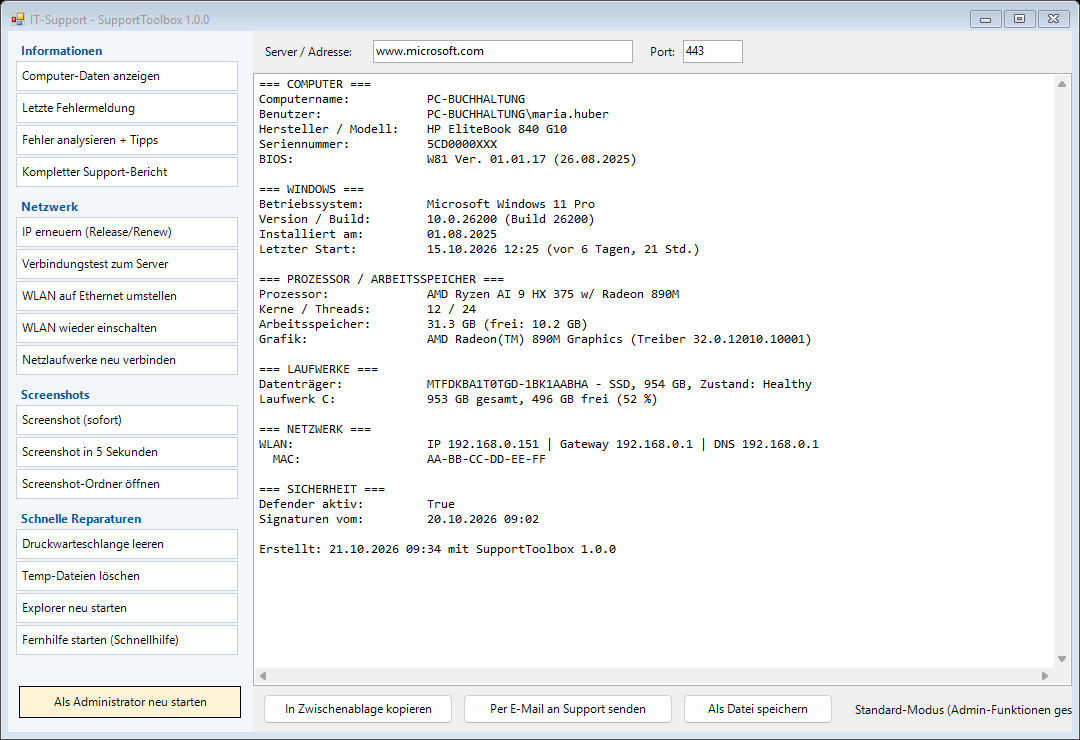
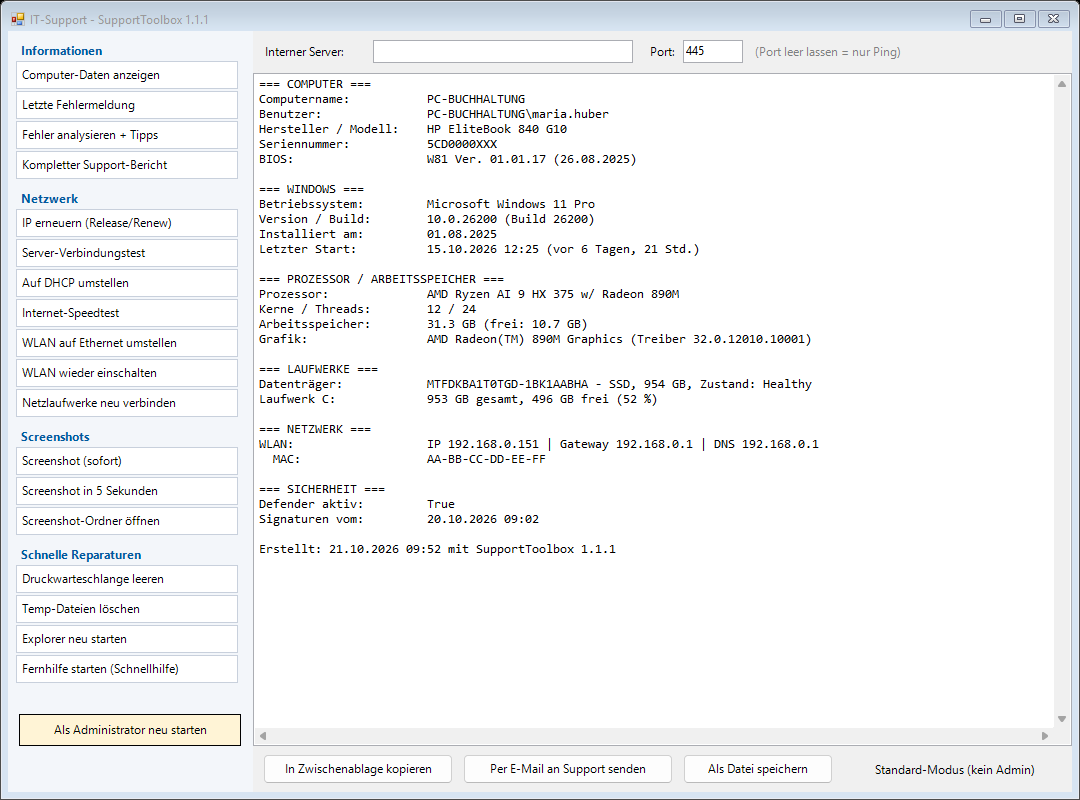
v1.1.1: Server-Verbindungstest fuer interne Server, DNS/DHCP-Infos, Layout-Fixes

diff --git a/docs/index.html b/docs/index.html
@@ -47,8 +47,8 @@ a{color:var(--accent)}
 <div class="card"><h3>⚠ Letzte Fehlermeldung</h3><p>Zeigt den neuesten Fehler aus dem Windows-Ereignisprotokoll im Klartext.</p></div>
 <div class="card"><h3>🔎 Fehleranalyse mit Tipps</h3><p>Erkennt bekannte Fehlermuster der letzten 14 Tage und gibt Hilfe zur Selbsthilfe. Prüft zusätzlich Speicherplatz, Neustart-Bedarf und RAM.</p></div>
 <div class="card"><h3>🔄 IP erneuern</h3><p><code>ipconfig /release</code>, <code>/renew</code> und DNS-Cache leeren in einem Schritt.</p></div>
-<div class="card"><h3>📡 Verbindungstest</h3><p>Router → Internet → DNS → Ping → Port zu Ihrem Server – mit verständlicher Diagnose, wo es hakt.</p></div>
-<div class="card"><h3>⚙ Auf DHCP umstellen</h3><p>Feste IP, Gateway und DNS mit einem Klick auf automatisch zurücksetzen – die alten Werte werden gesichert.</p></div>
+<div class="card"><h3>📡 Server-Verbindungstest</h3><p>Testet interne Server: Router → lokaler DNS-Server → Namensauflösung → Ping → Port – mit verständlicher Diagnose, wo es hakt.</p></div>
+<div class="card"><h3>⚙ Auf DHCP umstellen</h3><p>Feste IP, Gateway und DNS mit einem Klick auf automatisch zurücksetzen – alte Werte werden gesichert, der erhaltene DNS- und DHCP-Server wird angezeigt.</p></div>
 <div class="card"><h3>🚀 Internet-Speedtest</h3><p>Download, Upload, Ping und Schwankung mit verständlicher Einordnung und Tipps.</p></div>
 <div class="card"><h3>🔌 WLAN → Ethernet</h3><p>Schaltet das WLAN ab, sobald ein Netzwerkkabel verbunden ist – und bei Bedarf wieder an.</p></div>
 <div class="card"><h3>🗂 Netzlaufwerke</h3><p>Verbindet getrennte Laufwerke neu und prüft vorher, ob der Server erreichbar ist (VPN!).</p></div>
@@ -68,7 +68,7 @@ a{color:var(--accent)}
   "CompanyName": "Mein IT-Support",
   "SupportMail": "support@meine-firma.de",
   "TestHost": "server.meine-firma.de",
-  "TestPort": 443
+  "TestPort": 445
 }</pre>
 
 <footer>Open Source unter MIT-Lizenz · Läuft mit Windows PowerShell 5.1 (Windows 10/11) · Es werden keine Daten ins Internet gesendet.</footer>

diff --git a/README.md b/README.md
@@ -15,9 +15,9 @@ Kleines Support-Tool für Windows-Anwender: Der Kunde startet es per Doppelklick
 | | **Fehleranalyse + Tipps**: wertet die Fehler der letzten 14 Tage aus, erkennt bekannte Muster (Abstürze, Festplatte, Dienste, DNS, WLAN, Updates …) und gibt Hilfe zur Selbsthilfe; prüft zusätzlich Speicherplatz, Neustart-Bedarf, RAM, Defender |
 | | **Kompletter Support-Bericht** (alles zusammen) |
 | Netzwerk | **IP erneuern** (`ipconfig /release`, `/renew`, `/flushdns`) |
-| | **Auf DHCP umstellen**: feste IPv4-Einstellungen (IP, Gateway, DNS) mit einem Klick auf automatisch; alte Werte werden gesichert (Admin) |
+| | **Auf DHCP umstellen**: feste IPv4-Einstellungen (IP, Gateway, DNS) mit einem Klick auf automatisch; alte Werte werden gesichert (Admin). Zeigt danach IP, Gateway, den per DHCP erhaltenen DNS-Server, DNS-Suffix und DHCP-Server |
 | | **Internet-Speedtest**: Download, Upload, Ping und Schwankung (Cloudflare), mit Einordnung und Tipps |
-| | **Verbindungstest** zu Server/Port mit Diagnose (Router → Internet → DNS → Ping → Port) |
+| | **Server-Verbindungstest** für interne Server (Name oder IP, optional Port): Router → lokaler DNS-Server → Namensauflösung → Ping → Port, mit Diagnose |
 | | **WLAN auf Ethernet umstellen** (nur wenn Kabel verbunden ist) und wieder zurück |
 | | **Netzlaufwerke neu verbinden** (inkl. Erreichbarkeitsprüfung des Servers) |
 | Screenshots | Sofort oder nach 5 Sekunden, landet in `Bilder\Support-Screenshots` **und** in der Zwischenablage |
@@ -40,13 +40,13 @@ Voraussetzung: Windows 10/11 mit Windows PowerShell 5.1 (ist enthalten). Keine I
   "CompanyName": "Mein IT-Support",
   "SupportMail": "support@meine-firma.de",
   "TestHost": "server.meine-firma.de",
-  "TestPort": 443,
+  "TestPort": 445,
   "NetworkDrives": [ { "Letter": "Z", "Path": "\\\\server\\daten" } ]
 }
 ```
 
 - `SupportMail`: Empfänger der „Per E-Mail senden“-Funktion
-- `TestHost` / `TestPort`: Vorgabe für den Verbindungstest (vom Kunden änderbar)
+- `TestHost` / `TestPort`: interner Server (Name oder IP) und Port als Vorgabe für den Server-Verbindungstest (vom Kunden änderbar)
 - `NetworkDrives`: optionale zusätzliche Laufwerke, die beim Verbinden mit eingerichtet werden (bereits vorhandene Netzlaufwerke des Benutzers werden automatisch erkannt)
 
 Eigene Fehlermuster für die Analyse lassen sich in `SupportToolbox.ps1` in der Liste `$script:Rules` ergänzen (Provider-Regex, Ereignis-IDs, Tipp-Text).
